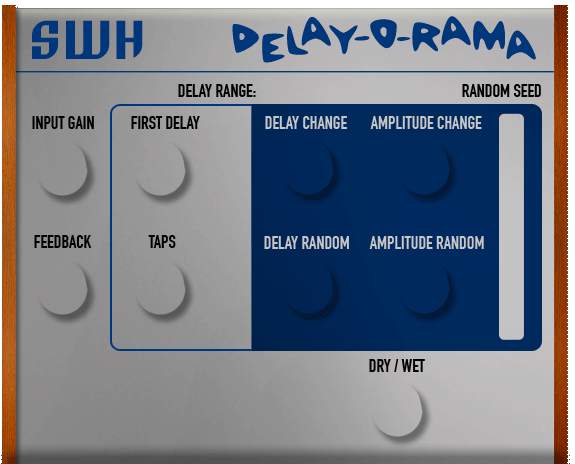
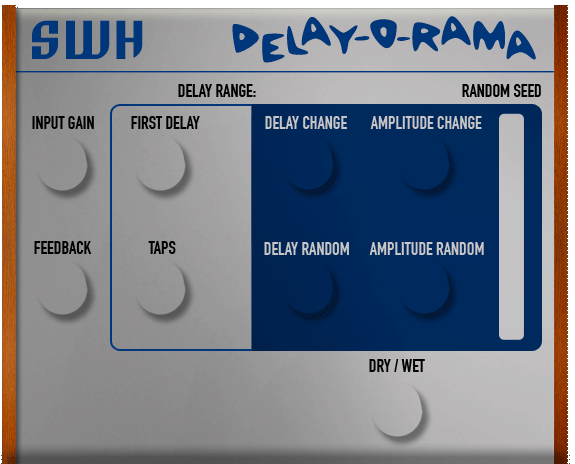
Layout refinements in delayorama

diff --git a/plugins/delayorama-swh.lv2/modgui/delayorama.css b/plugins/delayorama-swh.lv2/modgui/delayorama.css
@@ -46,32 +46,32 @@
     }
 
     .swh-delayorama .mod-control-group.group1 {
-        margin-top: 132px;
+        margin-top: 126px;
         margin-left: 26px;
         float: left;
         width: 217px !important;
     }
     .swh-delayorama .mod-control-group.group2 {
-        margin-top: 132px;
+        margin-top: 126px;
         margin-left: 23px;
         float: left;
         width: 255px !important;
     }
     .swh-delayorama .mod-control-group.group1 .mod-knob {
       text-align: center;
-      margin: 0 29px 21px 0;
+      margin: 0 29px 24px 0;
       float: left;
     }
     .swh-delayorama .mod-control-group.group2 .mod-knob {
       text-align: center;
-      margin: 0 46px 18px 0;
+      margin: 0 46px 24px 0;
       float: left;
     }
 
     .swh-delayorama .mod-control-group .mod-slider {
       position: absolute;
       right: 0;
-      margin-top: 10px;
+      margin-top: 14px;
     }
     .swh-delayorama .mod-control-group .mod-knob .mod-knob-image {
       background-image: url(/resources/knob.png{{{ns}}});
